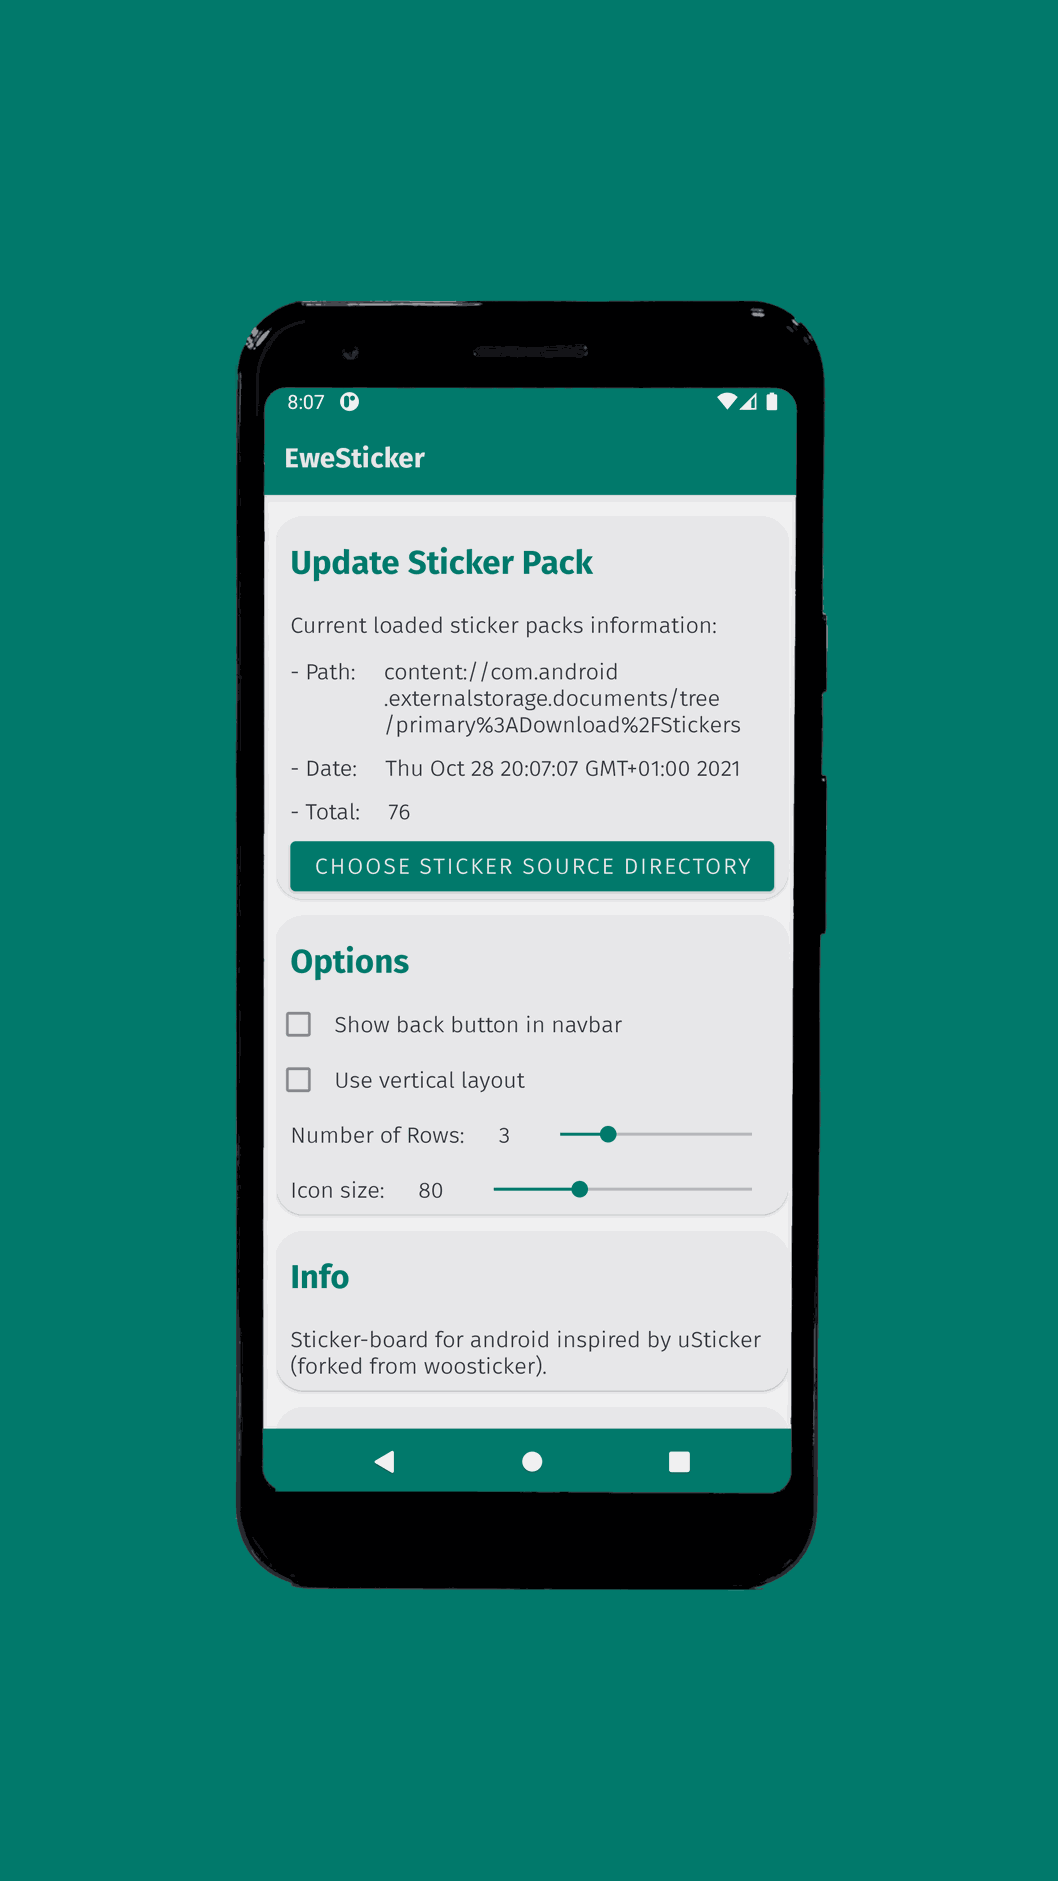
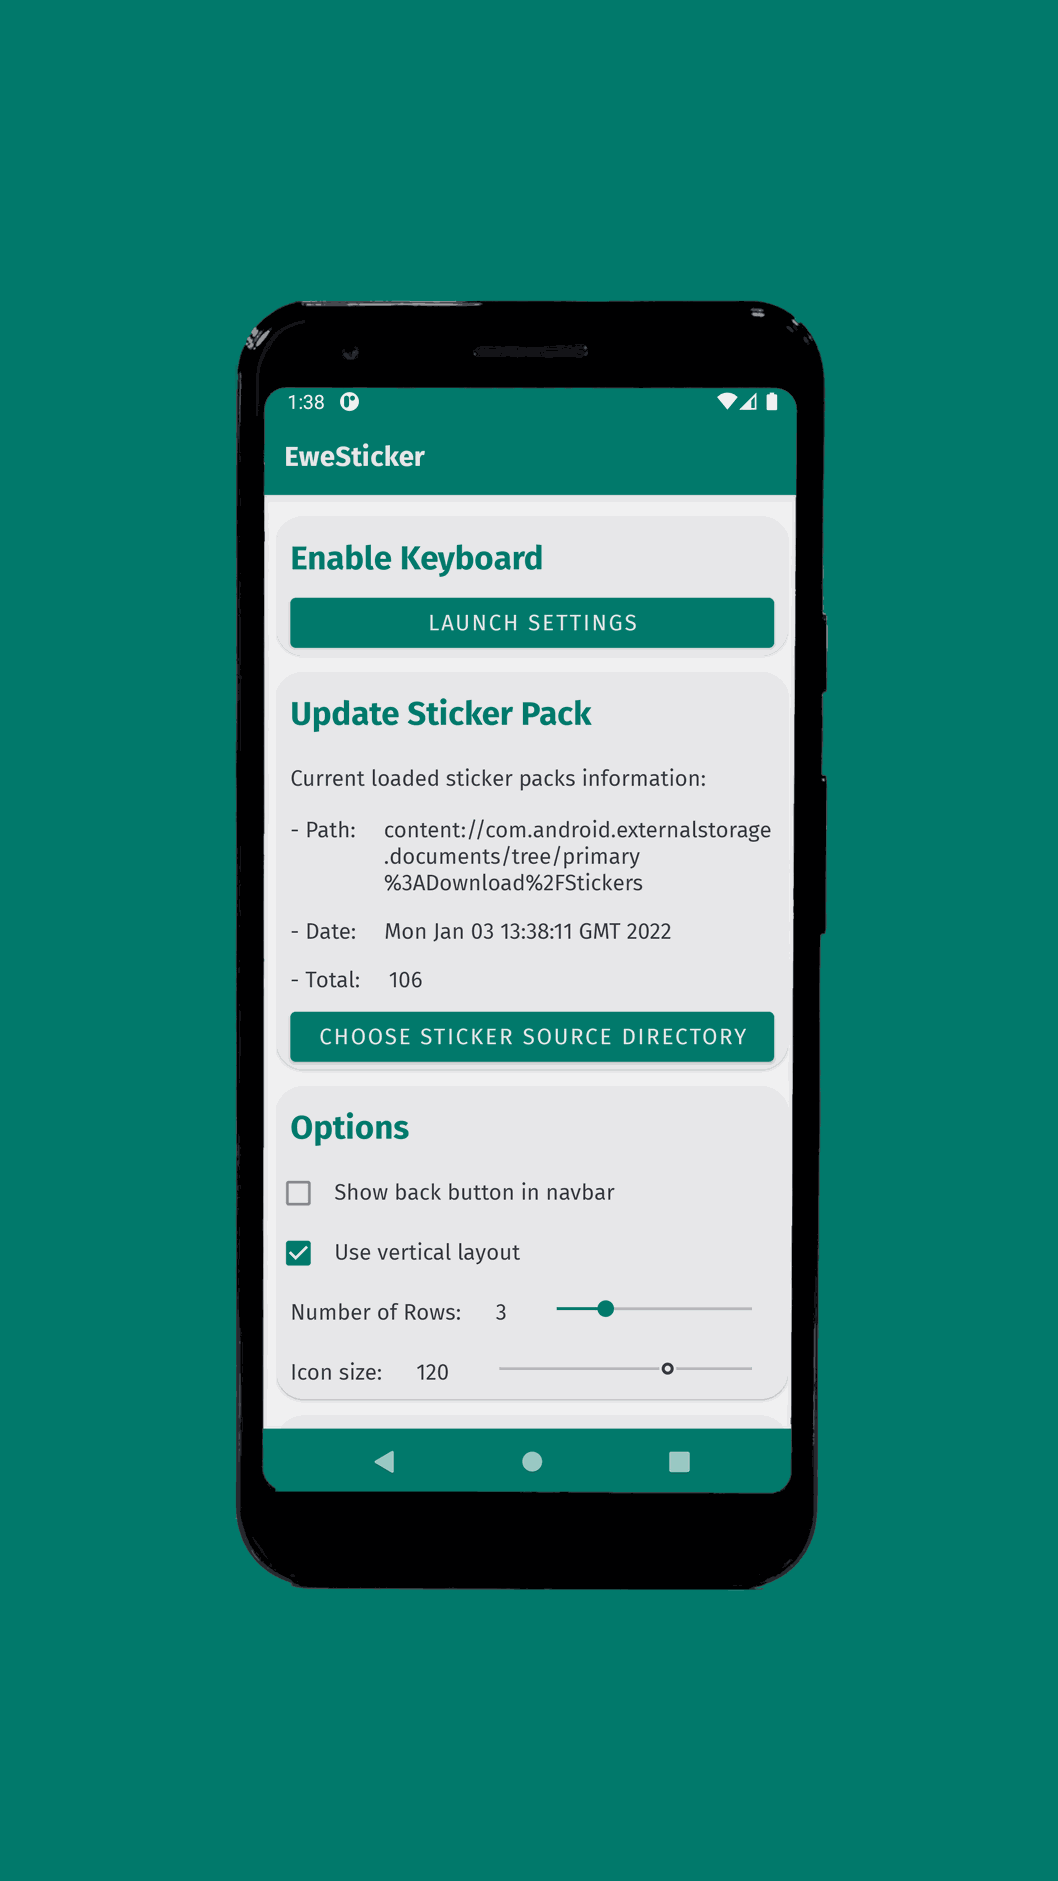
20220103

diff --git a/CHANGELOG.md b/CHANGELOG.md
@@ -3,7 +3,11 @@
 All major and minor version changes will be documented in this file. Details of
 patch-level version changes can be found in [commit messages](../../commits/master).
 
-## Next_Ver - 2021/12/xx
+<!--
+## Next_Ver - 2022/xx/xx
+-->
+
+## 20220103 - 2022/01/03
 
 - Add 'Enable Keyboard' section with 'Launch Settings' button. https://github.com/FredHappyface/Android.EweSticker/issues/31
 - Show back button in navbar by default. https://github.com/FredHappyface/Android.EweSticker/issues/32
